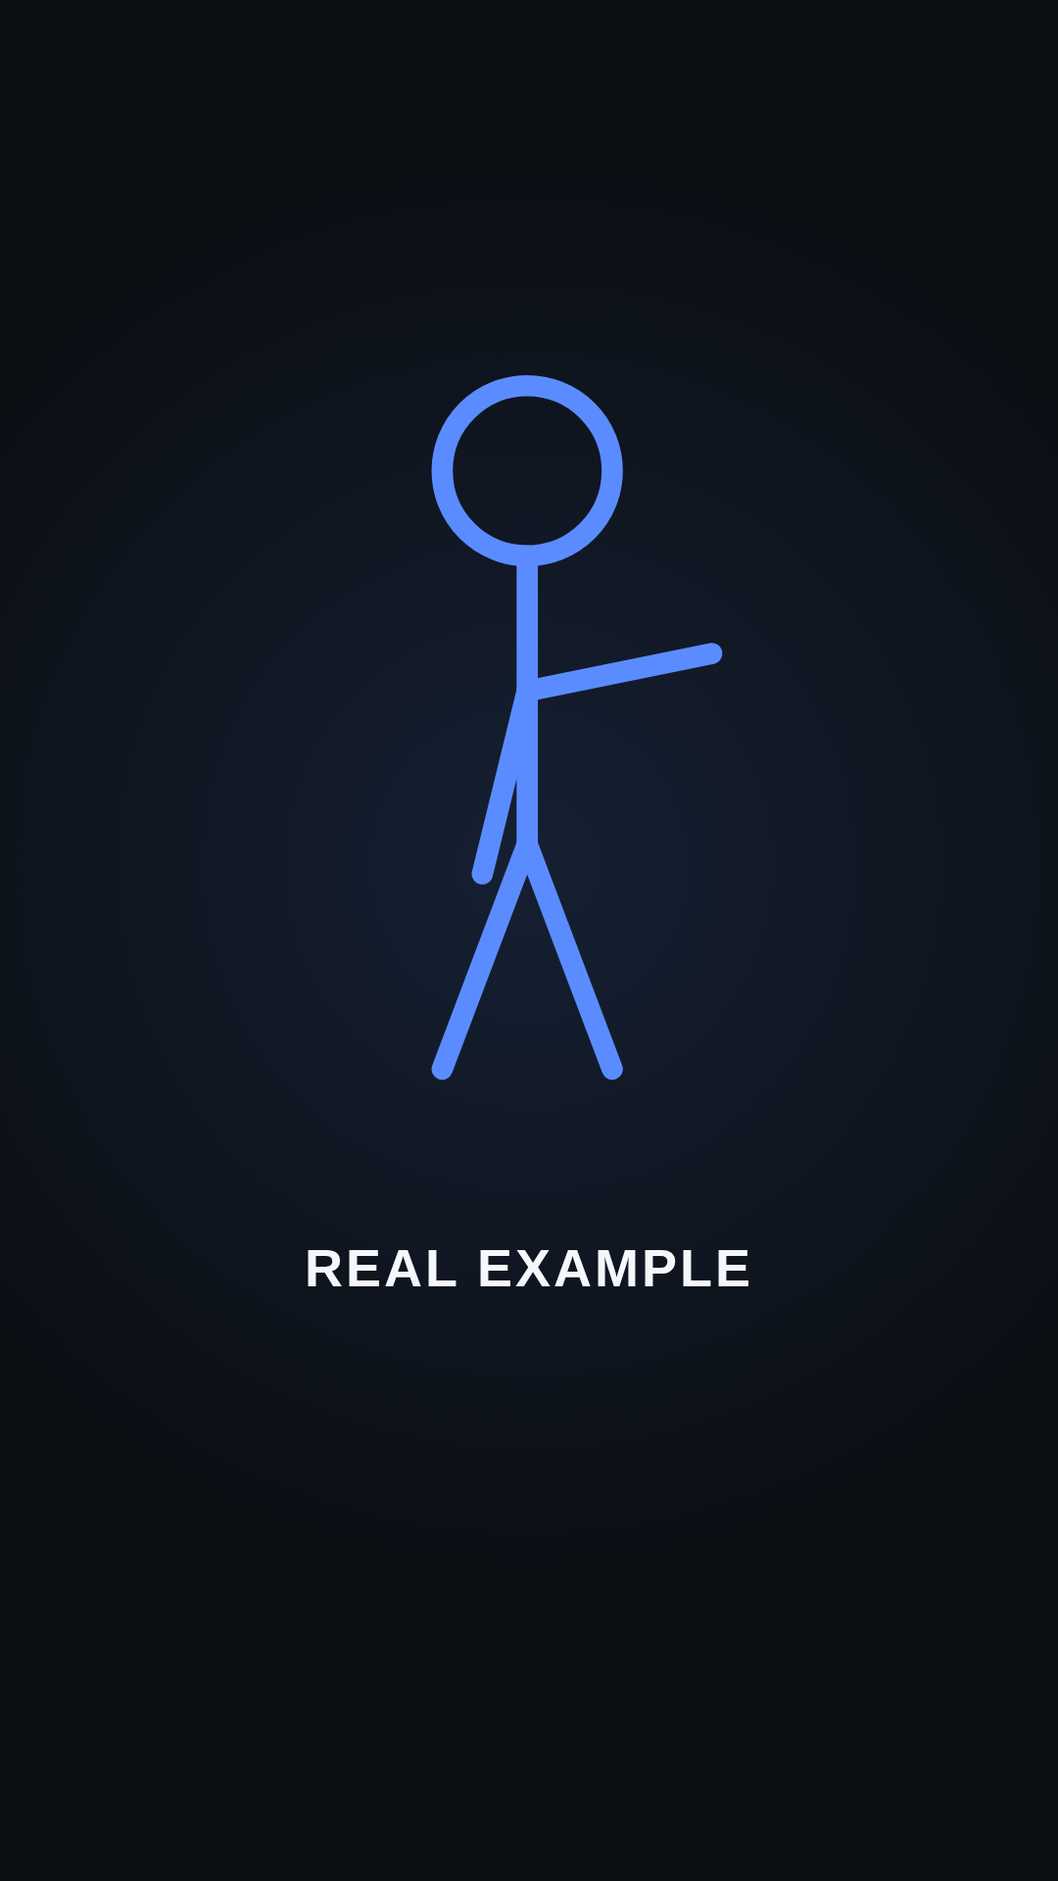
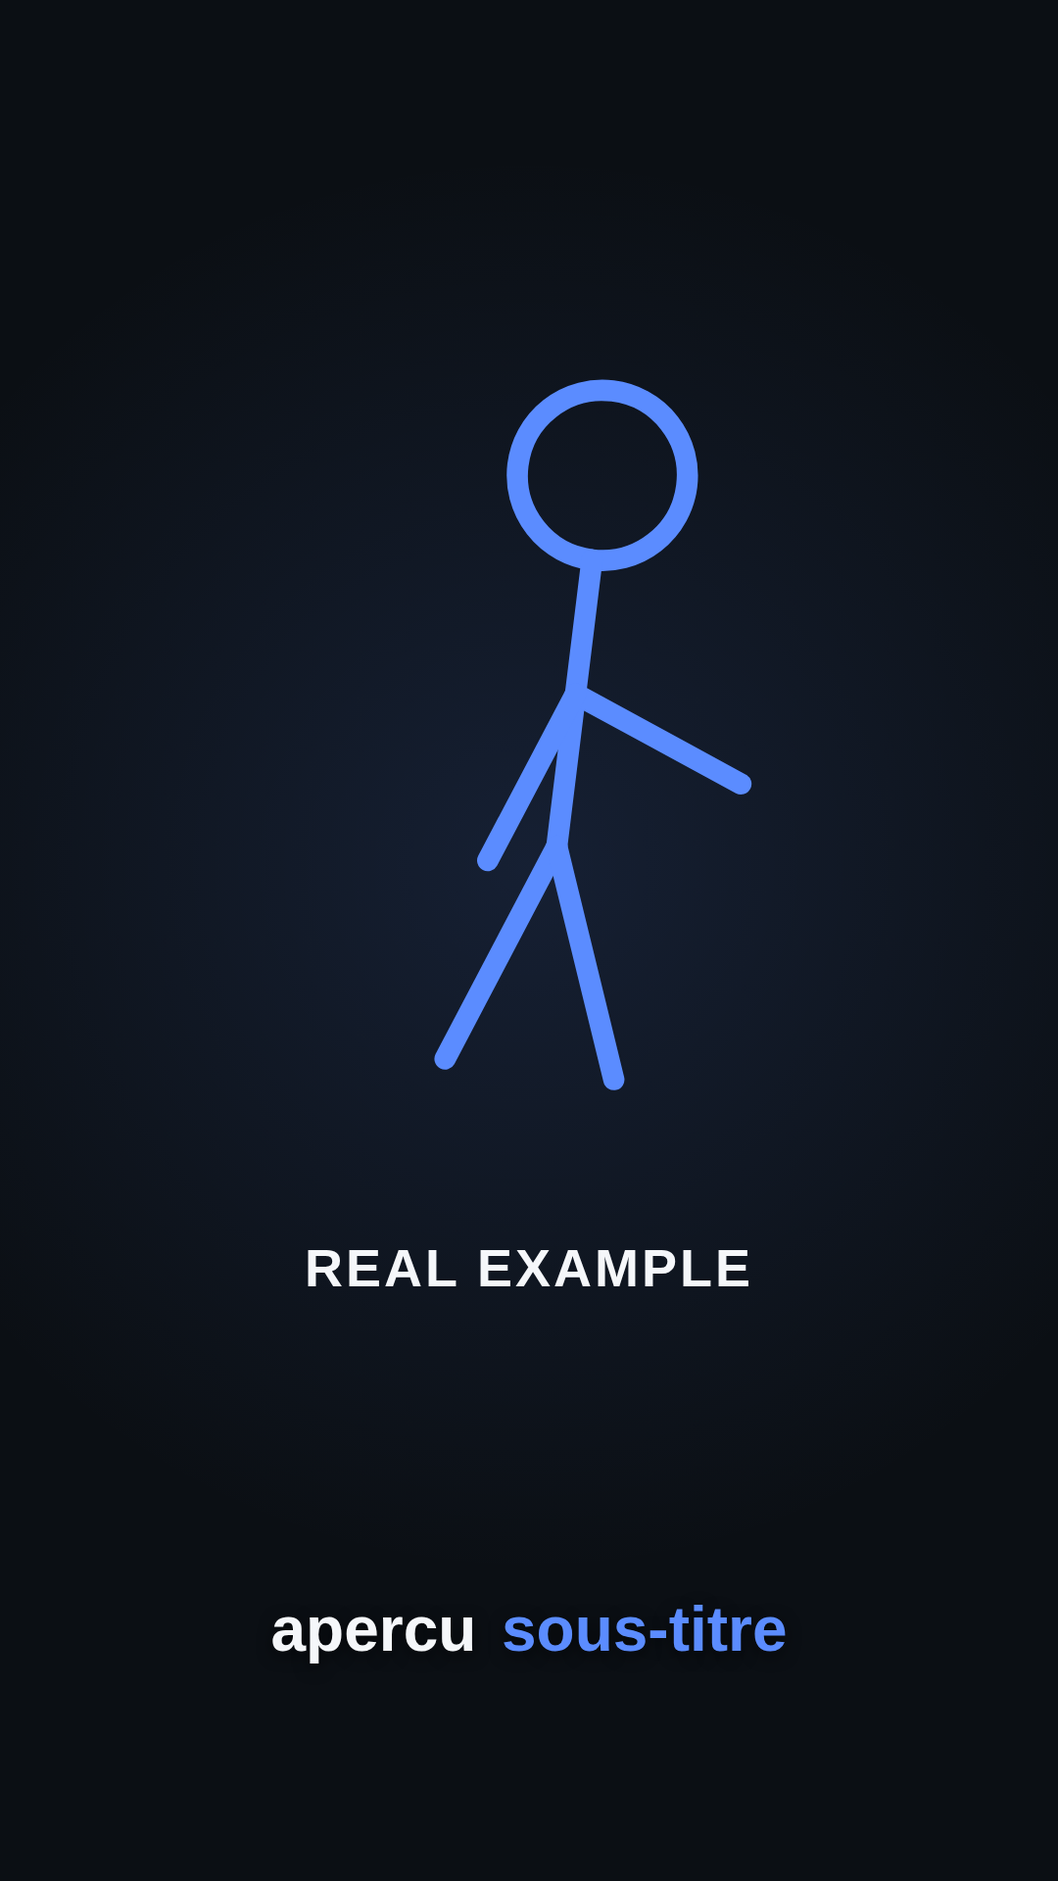
fix(composants): un correctif avait introduit le defaut suivant
Bloc 5 du diagnostic : apercus rendus et regardes, deux fois — avant par la
session, apres par moi. Quatre defauts.

1. Les quatre noeuds de `agent_loop` etaient rognes de 10,5 px, et c'est le
   correctif precedent qui l'a fait : passer le rayon des noeuds de 72 a 88
   pour que « OBSERVE » tienne dans son cercle a fait sortir le cercle du
   cadre (380 + 300 + 88 + 2,5 = 770,5 pour un viewBox de 760). Le rayon de
   la boucle etait un nombre ecrit a la main : il se derive desormais, et un
   test verifie l'inegalite. Premier defaut de dessin de cette revue qu'un
   test peut attraper.

2. Le rail du « chemin fixe » barrait encore le texte, alors que le
   commentaire du code annonce l'avoir corrige. La cause donnee par le
   diagnostic — un zIndex: 0 qui passerait au-dessus des freres — ne
   s'applique pas ici : les maillons portent zIndex: 1, l'empilement etait
   bon. La vraie cause est la seconde citee : le fond des boites est a 8 %
   d'opacite, le rail se voyait au travers. Fond opaque + teinte en
   degrade ; le rail ne passe plus que dans les intervalles et peut donc
   etre franc plutot que khaki terne.

3. `lean_in` ne se penchait pas : mappe sur 'point', quand la pose 'lean' —
   la seule qui incline le buste — n'etait atteignable par personne. Le
   meme defaut que `intro`/`outro` corrige dix lignes plus haut dans le
   meme fichier. Deux tests : deux poses ne rendent jamais la meme image, et
   la pose qui incline est utilisee par quelqu'un.
[…]

Changed region(s): [[0.3972, 0.1875, 0.7028, 0.5625], [0.2444, 0.8438, 0.7333, 0.9062], [0.3972, 0.5625, 0.4278, 0.5938]]

diff --git a/composants/src/components/ConceptCutaway.tsx b/composants/src/components/ConceptCutaway.tsx
@@ -90,7 +90,12 @@ const Maillon: React.FC<{
           fontSize: 46,
           fontWeight: 700,
           minWidth: 520,
-          backgroundColor: `${bord}14`,
+          // Fond **opaque**, plus une teinte par-dessus. A 8 % d'alpha, le
+          // rail du chemin fixe se voyait au travers et barrait le texte :
+          // le z-index etait pourtant correct (rail 0 sous maillon 1), ce
+          // n'etait pas un probleme d'empilement mais de transparence.
+          backgroundColor: charte.couleurs.fond,
+          backgroundImage: `linear-gradient(${bord}14, ${bord}14)`,
         }}
       >
         {item.texte}
@@ -106,11 +111,21 @@ const Boucle: React.FC<{charte: CharteTokens; progression: number; rotation: num
   progression,
   rotation,
 }) => {
-  const R = 300;
-  const C = 380;
+  // Geometrie derivee, pas recopiee. Le defaut precedent vient exactement
+  // de la : passer le rayon des noeuds de 72 a 88 pour que « OBSERVE »
+  // tienne dans son cercle a fait sortir le cercle du cadre, parce que le
+  // rayon de la boucle etait un nombre ecrit a la main. 380 + 300 + 88 +
+  // 2,5 = 770,5 pour un viewBox de 760 : les quatre noeuds etaient rognes
+  // de 10,5 px. Ici, changer un rayon recalcule l'autre.
+  const TAILLE = 760;
+  const RAYON_NOEUD = 88;
+  const TRAIT_NOEUD = 5;
+  const MARGE = 6;
+  const C = TAILLE / 2;
+  const R = C - RAYON_NOEUD - TRAIT_NOEUD / 2 - MARGE;
   const famille = charte.typographie.sous_titres.famille;
   return (
-    <svg width={760} height={760} viewBox="0 0 760 760">
+    <svg width={TAILLE} height={TAILLE} viewBox={`0 0 ${TAILLE} ${TAILLE}`}>
       <circle
         cx={C}
         cy={C}
@@ -133,7 +148,14 @@ const Boucle: React.FC<{charte: CharteTokens; progression: number; rotation: num
         return (
           <g key={nom} opacity={apparu}>
             {/* r=88 et non 72 : "OBSERVE" debordait de son cercle. */}
-            <circle cx={x} cy={y} r={88} fill={charte.couleurs.fond} stroke={charte.couleurs.accent} strokeWidth={5} />
+            <circle
+              cx={x}
+              cy={y}
+              r={RAYON_NOEUD}
+              fill={charte.couleurs.fond}
+              stroke={charte.couleurs.accent}
+              strokeWidth={TRAIT_NOEUD}
+            />
             <text
               x={x}
               y={y + 10}
@@ -213,7 +235,11 @@ export const ConceptCutaway: React.FC<Props> = ({scene, label, charte, da}) => {
                     width: 10,
                     marginLeft: -5,
                     borderRadius: 5,
-                    backgroundColor: `${charte.couleurs.accent_secondaire}55`,
+                    // Un rail rigide se lit comme une barre, pas comme une
+                    // salissure : a 33 % sur un fond quasi noir, il rendait
+                    // un khaki terne. Il n'est plus filtre par les maillons,
+                    // il peut donc etre franc.
+                    backgroundColor: `${charte.couleurs.accent_secondaire}99`,
                     opacity: progression,
                     // Derriere les maillons : au-dessus, le rail barrait le
                     // texte de chaque etape.

diff --git a/composants/src/components/StickmanTalk.tsx b/composants/src/components/StickmanTalk.tsx
@@ -17,7 +17,12 @@ type Props = StickmanTalkParams & {charte: CharteTokens; da?: DirectionArtistiqu
 // pas le choix.
 const POSE_VERS_STICKMAN: Record<StickmanTalkParams['pose'], StickmanPose> = {
   intro: 'wave',
-  lean_in: 'point',
+  // `lean_in` pointait sur 'point' (bras tendu a l'horizontale), et la pose
+  // 'lean' — la seule qui porte un vrai basculement du buste, 7 degres —
+  // n'etait atteignable par personne. Meme defaut que `intro`/`outro`
+  // corrige juste au-dessus : A6 croyait choisir une pose la ou il n'avait
+  // pas le choix. Le storyboard de 2026-09-11_v01 demande `lean_in` sur s9.
+  lean_in: 'lean',
   outro: 'open',
 };
 

diff --git a/tests/test_designer_registre.py b/tests/test_designer_registre.py
@@ -15,6 +15,7 @@ Lancer : python3 -m pytest tests/test_designer_registre.py -v
 
 import importlib.util
 import os
+import re
 import unittest
 from pathlib import Path
 
@@ -87,3 +88,79 @@ class TestParserRegistreCasLimites(unittest.TestCase):
 
 if __name__ == "__main__":
     unittest.main()
+
+
+class TestGeometrieDesComposants(unittest.TestCase):
+    """
+    Les defauts de dessin ne se voient qu'au rendu, mais certains se
+    calculent. Celui-ci a ete introduit par un correctif : passer le rayon
+    des noeuds de 72 a 88 pour que « OBSERVE » tienne dans son cercle a fait
+    sortir le cercle du cadre — 380 + 300 + 88 + 2,5 = 770,5 pour un viewBox
+    de 760, soit quatre noeuds rognes de 10,5 px. Aucun test ne pouvait le
+    dire ; celui-ci le dit.
+    """
+
+    def _source(self):
+        chemin = (Path(__file__).resolve().parent.parent / "composants" / "src"
+                  / "components" / "ConceptCutaway.tsx")
+        return chemin.read_text(encoding="utf-8-sig")
+
+    def _constante(self, source, nom):
+        trouve = re.search(rf"const {nom} = ([0-9.]+);", source)
+        self.assertIsNotNone(trouve, f"{nom} introuvable")
+        return float(trouve.group(1))
+
+    def test_les_noeuds_de_la_boucle_tiennent_dans_le_cadre(self):
+        source = self._source()
+        taille = self._constante(source, "TAILLE")
+        rayon_noeud = self._constante(source, "RAYON_NOEUD")
+        trait = self._constante(source, "TRAIT_NOEUD")
+        marge = self._constante(source, "MARGE")
+
+        centre = taille / 2
+        rayon_boucle = centre - rayon_noeud - trait / 2 - marge
+        extremite = centre + rayon_boucle + rayon_noeud + trait / 2
+
+        self.assertLessEqual(extremite, taille,
+                             "les noeuds de agent_loop sortent du viewBox")
+        # Et le rayon reste utile : une boucle ecrasee ne se lit pas non plus.
+        self.assertGreater(rayon_boucle, taille * 0.3)
+
+    def test_le_rayon_de_la_boucle_est_derive_et_non_ecrit(self):
+        # C'est la forme du code qui empeche le defaut de revenir : un rayon
+        # ecrit a la main se desynchronise du reste au premier ajustement.
+        source = self._source()
+        self.assertIn("const R = C - RAYON_NOEUD", source)
+        self.assertNotIn("const R = 300", source)
+
+
+class TestPosesAtteignables(unittest.TestCase):
+    """
+    `intro` et `outro` rendaient la meme image parce que les deux pointaient
+    sur 'wave'. Corrige — puis `lean_in` pointait sur 'point', et 'lean', la
+    seule pose qui incline le buste, n'etait atteignable par personne. Deux
+    fois le meme defaut : l'API annonce un choix que le rendu ne fait pas.
+    """
+
+    def _sources(self):
+        base = Path(__file__).resolve().parent.parent / "composants" / "src" / "components"
+        return (base / "StickmanTalk.tsx").read_text(encoding="utf-8-sig"), \
+               (base / "Stickman.tsx").read_text(encoding="utf-8-sig")
+
+    def test_chaque_pose_de_stickmantalk_rend_une_image_distincte(self):
+        talk, _ = self._sources()
+        bloc = talk.split("POSE_VERS_STICKMAN")[1].split("}")[0]
+        cibles = re.findall(r"^\s*(\w+):\s*'(\w+)'", bloc, re.MULTILINE)
+        self.assertTrue(cibles, "mapping illisible")
+
+        rendus = [cible for _, cible in cibles]
+        self.assertEqual(len(rendus), len(set(rendus)),
+                         f"deux poses rendent la meme image : {cibles}")
+
+    def test_la_pose_qui_incline_le_buste_est_utilisee(self):
+        talk, stickman = self._sources()
+        # La pose qui porte l'inclinaison, quelle qu'elle soit nommee.
+        inclinee = re.search(r"pose === '(\w+)' \? 7 : 0", stickman)
+        self.assertIsNotNone(inclinee, "plus d'inclinaison dans Stickman")
+        self.assertIn(f"'{inclinee.group(1)}'", talk,
+                      f"la pose '{inclinee.group(1)}' n'est atteignable par personne")

diff --git a/tests/test_apercus.py b/tests/test_apercus.py
@@ -26,6 +26,27 @@ sync_skills = importlib.util.module_from_spec(_spec)
 _spec.loader.exec_module(sync_skills)
 
 
+class TestSousTitresDansLApercu(unittest.TestCase):
+    """
+    Le catalogue passait `mots: []`, donc Subtitles ne rendait rien et la
+    bande basse qu'il occupe (paddingBottom: 220) n'apparaissait jamais.
+    Or « un element du composant passe sous les sous-titres » est exactement
+    le genre de defaut qu'un apercu doit attraper, et le docstring promettait
+    « exactement ce que la video montrera ».
+    """
+
+    def test_les_props_portent_des_mots_horodates(self):
+        props = generer_apercus.props_pour(
+            "TitleCard", {"texte": "Un titre"},
+            {"mouvement": "fondu", "rythme": "standard", "technique": "spring"},
+            {"couleurs": {}, "typographie": {}})
+
+        self.assertTrue(props["mots"], "sans mots, l'apercu cache les sous-titres")
+        for mot in props["mots"]:
+            self.assertEqual(set(mot) >= {"mot", "debut_s", "fin_s"}, True)
+            self.assertLess(mot["debut_s"], mot["fin_s"])
+
+
 class TestDeclaration(unittest.TestCase):
     def test_apercus_json_couvre_le_registre(self):
         """Un composant du registre sans variante declaree n'aurait pas d'apercu."""
@@ -60,10 +81,13 @@ class TestProps(unittest.TestCase):
         self.assertEqual(props["scenes"][0]["composant"], "TitleCard")
         self.assertIn("charte", props)
 
-    def test_aucun_mot_donc_pas_de_sous_titres(self):
+    def test_des_mots_donc_la_bande_de_sous_titres_est_visible(self):
+        # Ce test exigeait l'inverse (`mots == []`) : il figeait en exigence
+        # le fait que le catalogue ne montre pas les sous-titres, alors que
+        # les composants leur reservent 220 px en bas de cadre.
         props = generer_apercus.props_pour("TitleCard", {}, None,
                                            generer_apercus.charte_par_defaut())
-        self.assertEqual(props["mots"], [])
+        self.assertEqual(len(props["mots"]), 2)
 
     def test_la_da_est_transmise_si_declaree(self):
         props = generer_apercus.props_pour(

diff --git a/.claude/skills/short-designer/outils/generer_apercus.py b/.claude/skills/short-designer/outils/generer_apercus.py
@@ -95,8 +95,15 @@ def props_pour(composant, params, da, charte):
     scene = {"id": "apercu", "composant": composant, "duree_s": DUREE_SCENE_S, "params": params}
     if da:
         scene["da"] = da
-    # `mots` vide : Subtitles ne rend rien, l'apercu montre le composant seul.
-    return {"charte": charte, "scenes": [scene], "mots": []}
+    # Deux mots horodates factices, et non `mots: []`. Avec une liste vide
+    # Subtitles ne rend rien, et le catalogue ne montrait jamais la bande
+    # basse qu'il occupe (`paddingBottom: 220`) — alors que « un element du
+    # composant passe sous les sous-titres » est precisement le genre de
+    # defaut qu'un apercu doit attraper. Le docstring promettait « exactement
+    # ce que la video montrera » : ce n'etait pas vrai sur ce point.
+    mots = [{"mot": "apercu", "debut_s": 0.0, "fin_s": 0.6},
+            {"mot": "sous-titre", "debut_s": 0.6, "fin_s": 1.4}]
+    return {"charte": charte, "scenes": [scene], "mots": mots}
 
 
 def rendre(composant, nom, params, da, charte, frame, browser):

diff --git a/.claude/skills/short-monteur/outils/generer_apercus.py b/.claude/skills/short-monteur/outils/generer_apercus.py
@@ -95,8 +95,15 @@ def props_pour(composant, params, da, charte):
     scene = {"id": "apercu", "composant": composant, "duree_s": DUREE_SCENE_S, "params": params}
     if da:
         scene["da"] = da
-    # `mots` vide : Subtitles ne rend rien, l'apercu montre le composant seul.
-    return {"charte": charte, "scenes": [scene], "mots": []}
+    # Deux mots horodates factices, et non `mots: []`. Avec une liste vide
+    # Subtitles ne rend rien, et le catalogue ne montrait jamais la bande
+    # basse qu'il occupe (`paddingBottom: 220`) — alors que « un element du
+    # composant passe sous les sous-titres » est precisement le genre de
+    # defaut qu'un apercu doit attraper. Le docstring promettait « exactement
+    # ce que la video montrera » : ce n'etait pas vrai sur ce point.
+    mots = [{"mot": "apercu", "debut_s": 0.0, "fin_s": 0.6},
+            {"mot": "sous-titre", "debut_s": 0.6, "fin_s": 1.4}]
+    return {"charte": charte, "scenes": [scene], "mots": mots}
 
 
 def rendre(composant, nom, params, da, charte, frame, browser):

diff --git a/outils/generer_apercus.py b/outils/generer_apercus.py
@@ -95,8 +95,15 @@ def props_pour(composant, params, da, charte):
     scene = {"id": "apercu", "composant": composant, "duree_s": DUREE_SCENE_S, "params": params}
     if da:
         scene["da"] = da
-    # `mots` vide : Subtitles ne rend rien, l'apercu montre le composant seul.
-    return {"charte": charte, "scenes": [scene], "mots": []}
+    # Deux mots horodates factices, et non `mots: []`. Avec une liste vide
+    # Subtitles ne rend rien, et le catalogue ne montrait jamais la bande
+    # basse qu'il occupe (`paddingBottom: 220`) — alors que « un element du
+    # composant passe sous les sous-titres » est precisement le genre de
+    # defaut qu'un apercu doit attraper. Le docstring promettait « exactement
+    # ce que la video montrera » : ce n'etait pas vrai sur ce point.
+    mots = [{"mot": "apercu", "debut_s": 0.0, "fin_s": 0.6},
+            {"mot": "sous-titre", "debut_s": 0.6, "fin_s": 1.4}]
+    return {"charte": charte, "scenes": [scene], "mots": mots}
 
 
 def rendre(composant, nom, params, da, charte, frame, browser):

diff --git a/docs/diagnostic_pipeline.md b/docs/diagnostic_pipeline.md
@@ -452,6 +452,7 @@ Vérifié sur le dossier reconstitué de `2026-09-11_v01` : l'écart de
 | 12 | Rapport de checkpoint : trois rangs de sections, les liens cèdent le budget aux faits | ✅ fait |
 | 13 | CP2 : le budget a une section obligatoire et passe en tête des priorités ; règle des sigles dans le SKILL d'A5 | ✅ fait |
 | 14 | E4 : rapport audio archivé par tentative, `FORCER_RELANCE` lève aussi le contrôle de statut | ✅ fait |
+| 15 | Composants : boucle rognée, rail à travers le texte, `lean_in` sans inclinaison, sous-titres absents du catalogue | ✅ fait |
 | — | *Plus tard* : outils qui rendent Remotion plus organique (d3-ease, `@remotion/noise`, rough.js) | ⬜ |
 
 ## Reste à diagnostiquer
@@ -907,6 +908,69 @@ l'audio est `termine` mais à refaire — script corrigé, phrase changée — i
 n'existait aucun chemin outillé : il fallait éditer `state.json` à la main,
 ce que le §5.5 interdit partout ailleurs. Le drapeau « en connaissance de
 cause » lève désormais les deux.
+
+## E5/E6 — quatre défauts, dont un introduit par un correctif
+
+Aperçus rendus et **regardés**, deux fois : avant, par la session de
+diagnostic ; après, ici.
+
+**1. Les quatre nœuds de `agent_loop` étaient rognés de 10,5 px.** Et le
+correctif précédent est le coupable : passer le rayon des nœuds de 72 à 88
+pour que « OBSERVE » tienne dans son cercle a fait sortir le cercle du
+cadre. `380 + 300 + 88 + 2,5 = 770,5` pour un viewBox de 760. Le rayon de la
+boucle était un nombre écrit à la main ; il se **dérive** désormais du reste,
+et un test vérifie l'inégalité. C'est le premier défaut de dessin de cette
+revue qu'un test peut attraper.
+
+**2. Le rail du « chemin fixe » barrait encore le texte** — alors que le
+commentaire du code annonce l'avoir corrigé. La cause donnée par le
+diagnostic (un `zIndex: 0` qui passerait au-dessus des frères) ne
+s'applique pas ici : les maillons portent `zIndex: 1`, l'empilement était
+correct. La vraie cause est la seconde qu'il cite : le fond des boîtes est à
+**8 % d'opacité**, le rail se voyait au travers. Fond opaque, teinte
+par-dessus en dégradé — le rail ne passe plus que dans les intervalles, où
+il a sa place, et peut donc être franc plutôt que khaki terne.
+
+**3. `lean_in` ne se penchait pas.** Mappé sur `'point'` (bras tendu à
+l'horizontale), quand la pose `'lean'` — la seule qui incline le buste de
+7° — n'était atteignable par personne. **Exactement le défaut corrigé dix
+lignes plus haut dans le même fichier** (`intro` et `outro` rendaient la
+même image). Deux fois la même erreur : une API qui annonce un choix que le
+rendu ne fait pas. Un test vérifie maintenant que deux poses ne rendent
+jamais la même image, et que la pose qui incline est utilisée par quelqu'un.
+
+**4. Le catalogue ne montrait jamais les sous-titres** : `mots: []`, donc
+`Subtitles` renvoie `null`. Or les composants leur réservent 220 px en bas
+de cadre, et « un élément passe sous les sous-titres » est précisément le
+genre de défaut qu'un aperçu doit attraper. Le docstring promettait
+« exactement ce que la vidéo montrera » ; c'était faux sur la seule bande
+que le catalogue ne montrait pas. Deux mots horodatés factices suffisaient.
+
+Un test existant exigeait l'inverse — `mots == []`. Il figeait le défaut en
+exigence. C'est la deuxième fois en deux jours.
+
+### Ce que la session a écarté, et pourquoi c'est utile
+
+Trois candidats abandonnés après lecture du code : la boucle sans flèches
+(le cercle se **trace**, le sens est dans l'animation), le tiers bas vide
+(c'est la place des sous-titres), les bras partant d'épaules différentes
+(même point `EPAULE`, mauvaise lecture). D'où la règle : **sur une image
+fixe, une propriété animée se lit comme absente.** Le catalogue est
+indispensable et il ne dit pas tout.
+
+### L'anatomie des 16,4 s, enfin complète
+
+24 phrases recollées aux 11 scènes, `construire_props` valide à 82,12 s
+sans un avertissement. Deux choses que le total cachait :
+
+- **neuf scènes trop longues, mais deux trop courtes.** Ce n'est pas une
+  surestimation uniforme qu'un facteur correctif aurait réglée : A6 se
+  trompe dans les deux sens et l'erreur s'accumule ;
+- **le débit faux n'explique que les deux tiers.** 231 mots font 82,5 s à
+  2,8 et 92,4 s à 2,5 — or le plan d'A6 fait 98,8 s. Donc ≈ 9,9 s viennent
+  de la constante, et **≈ 6,4 s d'un surplus qu'A6 a ajouté par-dessus son
+  propre débit**. Le recalage corrige les deux, puisqu'il ne repose sur
+  aucun débit.
 
 ## En attente de Franco
 

diff --git a/docs/architecture_chaine_v1.2.md architecture_chaine_v1.2.md b/docs/architecture_chaine_v1.2.md architecture_chaine_v1.2.md
@@ -579,6 +579,15 @@ Avant `animation.ts`, les trois composants faisaient **exactement le même geste
 
 Ce n'était pas une limite de Remotion mais de ce qui en était utilisé. Un agent optimise ce qu'on peut lui reprocher : le code compilait, les props étaient typées, aucune couleur n'était en dur — tous les critères vérifiables étaient au vert, et personne ne regardait le reste.
 
+### Géométrie dérivée, poses distinctes
+
+Deux règles nées de défauts réels, tenues par des tests :
+
+- **une dimension ne se recopie pas, elle se dérive.** Le rayon de la boucle de `agent_loop` était écrit à la main ; augmenter le rayon des nœuds pour que leur texte tienne a fait sortir les nœuds du cadre — `380 + 300 + 88 + 2,5 = 770,5` pour un viewBox de 760. Un correctif en a introduit un autre parce que deux constantes liées vivaient séparément.
+- **deux paramètres distincts doivent rendre deux images distinctes.** `intro` et `outro` pointaient tous deux sur `wave` ; corrigé, puis `lean_in` pointait sur `point` et la pose `lean` n'était atteignable par personne. Une API qui annonce un choix que le rendu ne fait pas est pire qu'une API qui n'offre pas le choix : A6 croit décider.
+
+Et un rappel que le catalogue ne remplace pas : **sur une image fixe, une propriété animée se lit comme absente.** Le tracé progressif d'un cercle, un wobble, un décalage d'entrée — rien de tout ça n'est visible sur un PNG. Le catalogue attrape les défauts de composition, pas ceux de mouvement.
+
 ### Vérification visuelle
 
 Avant de clore E6, A7 rend quelques images fixes (`remotion still` sur le hook, un milieu, une fin) et les regarde. Rien n'arrive au CP3 sans avoir été vu : corriger sur une image coûte bien moins qu'un rendu complet.
